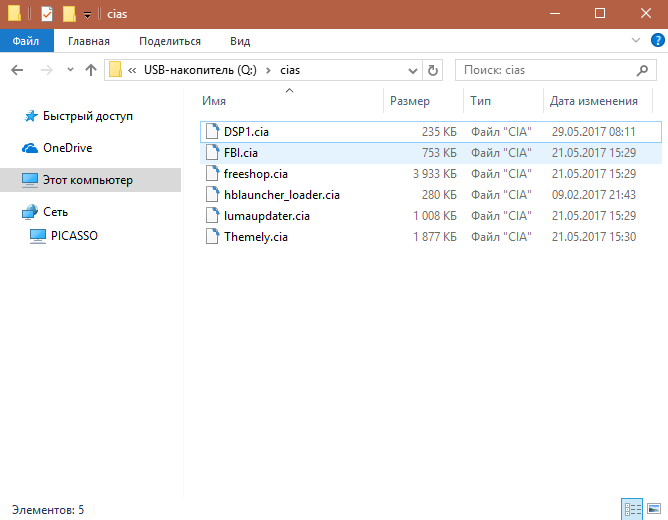
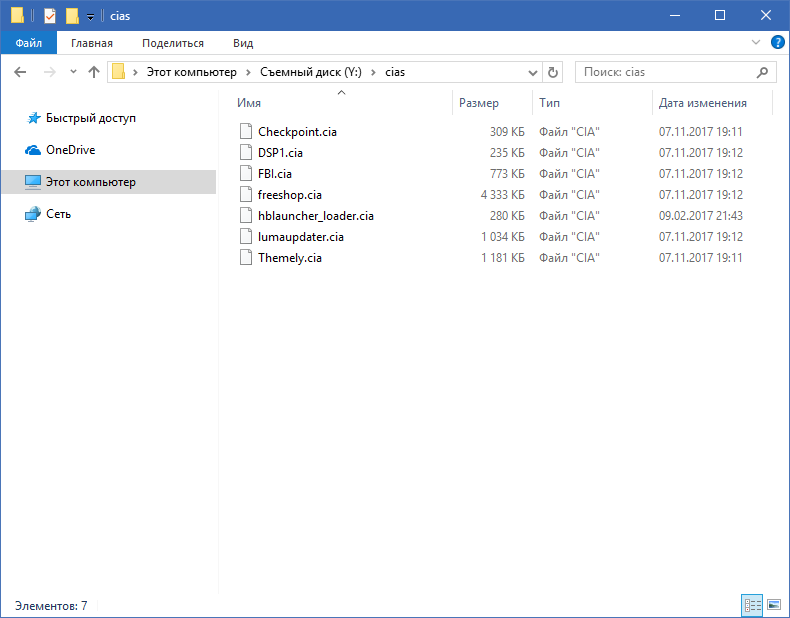
final cuts

Changed region(s): [[0.0, 0.0, 1.0, 1.0], [0.0, 0.1846, 0.2695, 0.4615]]

diff --git a/_pages/finalizing-setup_old.md b/_pages/finalizing-setup_old.md
@@ -1,5 +1,5 @@
 ---
-title: "Завершение установки" #
+title: "Завершение установки вручную" #
 lang: ru
 permalink:  finalizing-setup_old.html
 author_profile: true
@@ -26,15 +26,15 @@ author_profile: true
 
 ## Что понадобится
 
-* Свежая версия [Themely](https://github.com/ErmanSayin/Themely/releases/latest) *(`.cia`-файл)*
-* Свежая версия [Checkpoint](https://github.com/BernardoGiordano/Checkpoint/releases/latest) *(`.cia`-файл)*
-* Свежая версия [hblauncher_loader](https://github.com/yellows8/hblauncher_loader/releases/latest)
-* Свежая версия [GodMode9](https://github.com/d0k3/GodMode9/releases/latest) *(`.zip`-архив)*
-* Свежая версия [DSP1](https://github.com/zoogie/DSP1/releases/latest) *(`.cia` файл)*
-* Свежая версия [FBI](https://github.com/Steveice10/FBI/releases/latest) *(`.cia-файл`и `.3dsx-файл`)*
-* Свежая версия [Luma3DS Update](https://github.com/KunoichiZ/lumaupdate/releases/latest) *(`.cia` файл)*
-* Свежая версия [freeshop](https://notabug.org/arc13/freeShop/releases) *(`.cia` файл)*
 * The Homebrew [Starter Kit](http://smealum.github.io/ninjhax2/starter.zip)
+* Свежая версия [Checkpoint](https://github.com/BernardoGiordano/Checkpoint/releases/latest) *(`.cia`-файл)*
+* Свежая версия [DSP1](https://github.com/zoogie/DSP1/releases/latest) *(`.cia` файл)*
+* Свежая версия [FBI](https://github.com/Steveice10/FBI/releases/latest) *(`.cia-файл` и `.3dsx-файл`)*
+* Свежая версия [freeshop](https://notabug.org/arc13/freeShop/releases) *(`.cia` файл)*
+* Свежая версия [hblauncher_loader](https://github.com/yellows8/hblauncher_loader/releases/latest)
+* Свежая версия [Luma3DS Update](https://github.com/KunoichiZ/lumaupdate/releases/latest) *(`.cia` файл)*
+* Свежая версия [Themely](https://github.com/ErmanSayin/Themely/releases/latest) *(`.cia`-файл)*
+* Свежая версия [GodMode9](https://github.com/d0k3/GodMode9/releases/latest) *(`.zip`-архив)*
 * [`setup_ctrnand_luma3ds.gm9`]({{ "/gm9_scripts/setup_ctrnand_luma3ds.gm9" | absolute_url }})
 * [`cleanup_sd_card.gm9`]({{ "/gm9_scripts/cleanup_sd_card.gm9" | absolute_url }})
 
@@ -44,16 +44,17 @@ author_profile: true
 
 1. Отключите приставку
 1. Вставьте SD-карту в компьютер
-1. Скопируйте _содержимое_ архива `starter.zip` в корне SD-карты
+1. Скопируйте boot.3dsx из архива `starter.zip` в корень SD-карты
+1. Создайте папку `3ds` в корне SD-карты
 1. Скопируйте `FBI.3dsx` в папку `/3ds/` на SD-карте
 1. Создайте папку `cias` в корне SD-карты, если таковой нет
-1. Скопируйте `hblauncher_loader.cia` из `.zip` архива hblauncher_loader в папку `/cias/` в корне SD-карты
-1. Скопируйте `lumaupdater.cia` в папку `/cias/` на SD-карте
-1. Скопируйте `Anemone3DS.cia` в папку `/cias/` на SD-карты
 1. Скопируйте `Checkpoint.cia` в папку `/cias/` на SD-карты
-1. Скопируйте `freeshop.cia` в папку `/cias/` на SD-карты
 1. Скопируйте `DSP1.cia` в папку `/cias/` на SD-карты
 1. Скопируйте `FBI.cia` в папку `/cias/` на SD-карты
+1. Скопируйте `freeshop.cia` в папку `/cias/` на SD-карты
+1. Скопируйте `hblauncher_loader.cia` из `.zip` архива hblauncher_loader в папку `/cias/` в корне SD-карты
+1. Скопируйте `lumaupdater.cia` в папку `/cias/` на SD-карте
+1. Скопируйте `Themely.cia` в папку `/cias/` на SD-карты
 
     ![]({{ "/images/screenshots/cias-file-layout.png" | absolute_url }})
 	{: .text-center}
@@ -84,7 +85,7 @@ author_profile: true
 
 ### Часть IV - Установка CIA
 
-1/ Запустите FBI
+1. Запустите FBI
 1. Перейдите в `SD` -> `cias`
 1. Выберите "\<current directory>"
 1. Выберите "Install and delete all CIAs" и нажмите (A) для подтверждения
